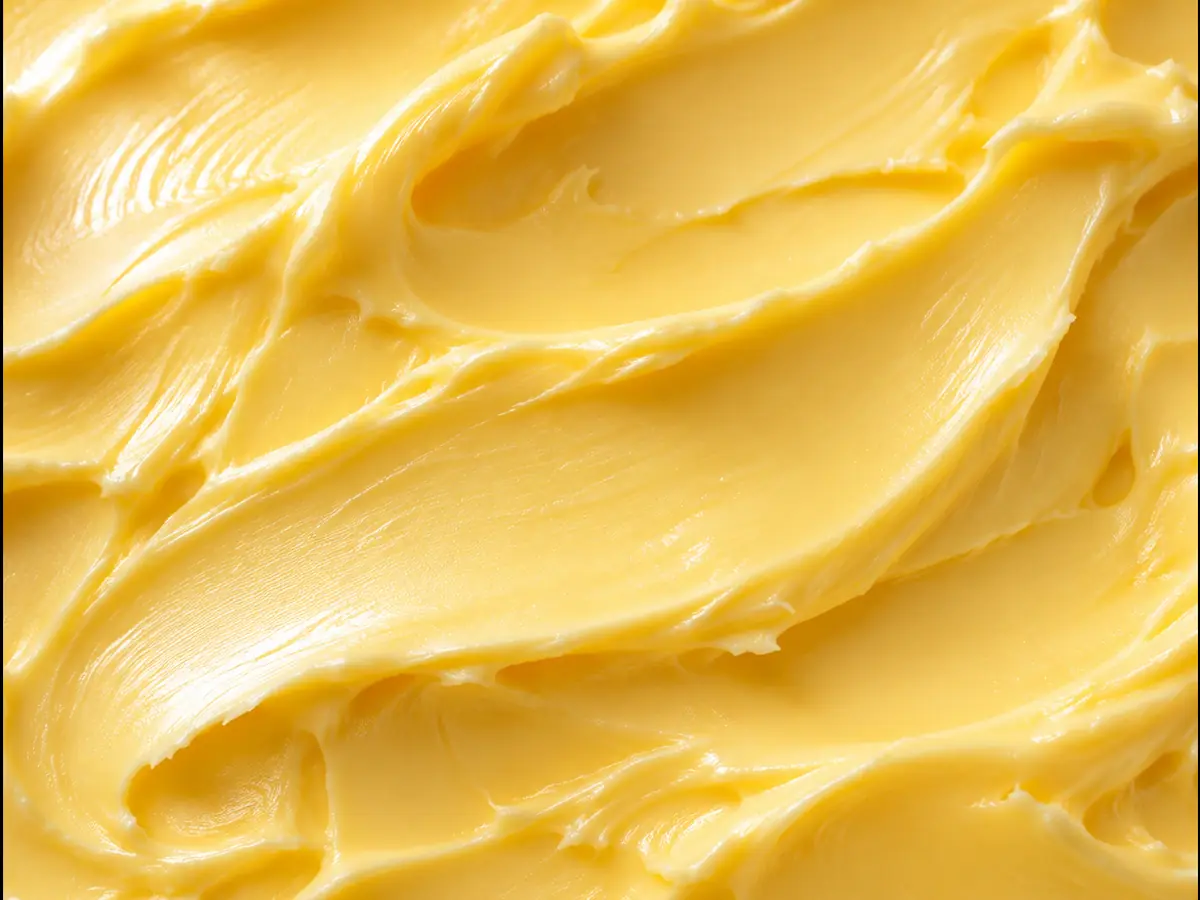
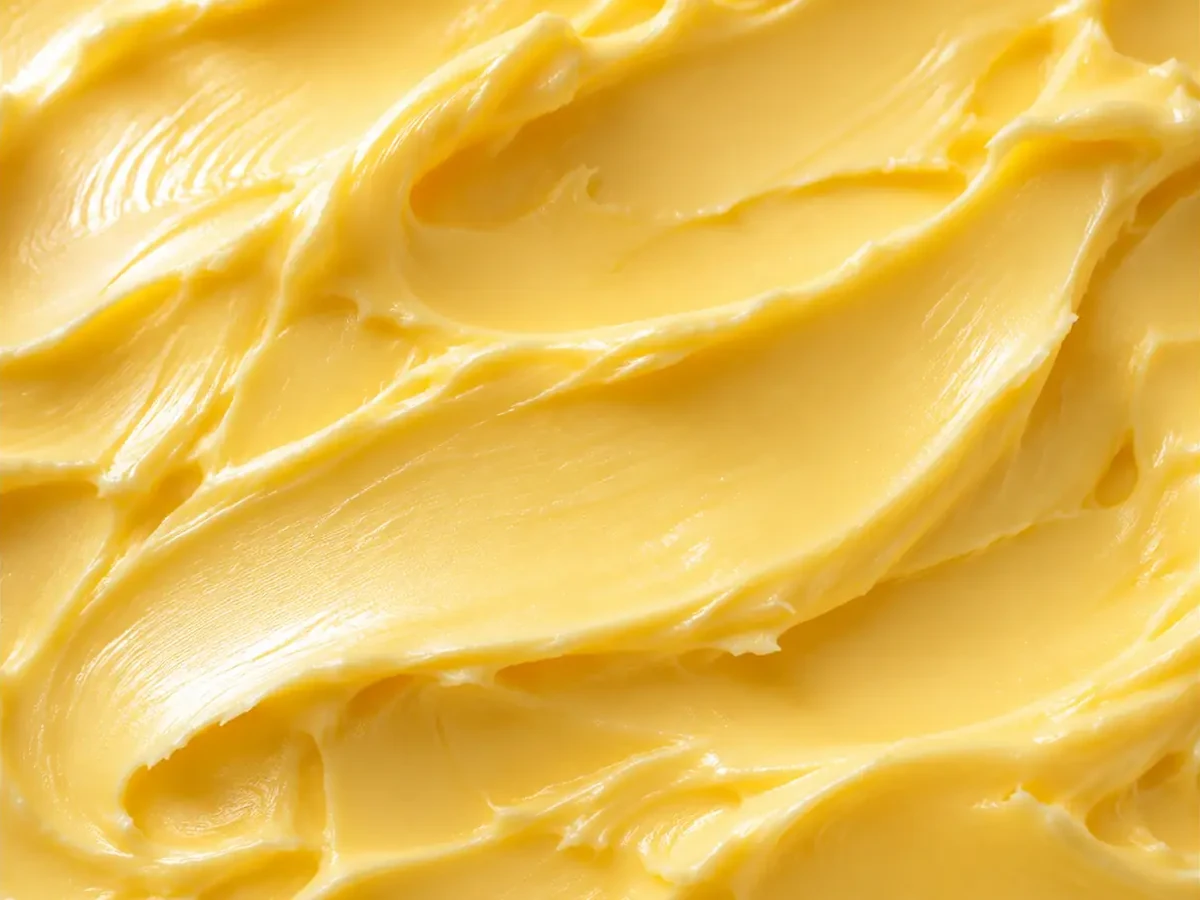
Trim black edges from product images and add the Personal Care products
- All 23 handover product images carried 3 black pixel columns on the
  left and 2 on the right, visible as a hairline border; trimmed and
  re-encoded at 1200x900, with versioned image URLs so the image CDN
  picks up the new files
- Add Darby IPM, Darby IPP and Darby MCT to the Personal Care catalog
  from the client's product information, with two generated placeholder
  images to the design-system brief and the existing MCT image reused
- Composition text renders chemical subscripts (C₁₉H₃₈O₂)
- Personal Care copy and share image updated for the known range

Claude-Session: https://claude.ai/code/session_01CU7RCeHdAYKRgZe1UpvXSE

diff --git a/src/components/ProductCatalog.tsx b/src/components/ProductCatalog.tsx
@@ -2,7 +2,7 @@
 
 import Image from "next/image";
 import { useEffect, useState } from "react";
-import type { CategoryCount, Product } from "@/lib/products";
+import { productImage, type CategoryCount, type Product } from "@/lib/products";
 import { ArrowIcon, DisplayName } from "./ui";
 
 export const SPEC_PRODUCT_EVENT = "darby:spec-product";
@@ -74,7 +74,7 @@ export function ProductCatalog({
             <div className="card__media">
               <Image
                 className="pimg"
-                src={p.image}
+                src={productImage(p.image)}
                 alt={`${p.name === p.display_name ? p.name : p.display_name}, close-up`}
                 fill
                 sizes="(min-width: 1156px) 290px, (min-width: 860px) 33vw, (min-width: 568px) 50vw, 100vw"
@@ -89,7 +89,11 @@ export function ProductCatalog({
               </h3>
               <span className="card__subtitle">{p.subtitle}</span>
               <p className="card__desc">{p.description}</p>
-              {p.composition ? <p className="card__composition">{p.composition}</p> : null}
+              {p.composition ? (
+                <p className="card__composition">
+                  <DisplayName value={p.composition} />
+                </p>
+              ) : null}
               {p.certifications.length > 0 ? (
                 <p className="card__certs">
                   <span className="card__certs-label">Certified</span>

diff --git a/src/app/page.tsx b/src/app/page.tsx
@@ -3,7 +3,7 @@ import Image from "next/image";
 import Link from "next/link";
 import { HeroFilm } from "@/components/HeroFilm";
 import { ButtonLink, Equator } from "@/components/ui";
-import { getCategories, pluralProducts, type DivisionName } from "@/lib/products";
+import { getCategories, pluralProducts, productImage, type DivisionName } from "@/lib/products";
 import { homeSeo, pageMetadata } from "@/lib/seo";
 import { site } from "@/lib/site";
 
@@ -32,8 +32,8 @@ const divisions: {
   {
     name: "Personal Care",
     href: "/personal-care",
-    image: "/assets/products/hydro-palm-flakes.webp",
-    text: "Palm-based ingredients for personal care and cosmetic formulations, from the same RSPO-certified origin and the same U.S. warehouses.",
+    image: "/assets/products/darby-ipm.webp",
+    text: "Emollient esters and medium-chain triglycerides for skin care, color cosmetics and topical pharmaceutical formulations.",
   },
 ];
 
@@ -139,7 +139,7 @@ export default function HomePage() {
                   <Link href={d.href} tabIndex={-1} aria-hidden="true" className="division-row__media">
                     <Image
                       className="pimg"
-                      src={d.image}
+                      src={productImage(d.image)}
                       alt=""
                       fill
                       sizes="(min-width: 1000px) 640px, 100vw"

diff --git a/src/app/personal-care/page.tsx b/src/app/personal-care/page.tsx
@@ -5,7 +5,7 @@ import { DivisionPage } from "@/components/DivisionPage";
 export const metadata: Metadata = pageMetadata({
   title: "Personal Care | Darby",
   description:
-    "Palm-based ingredients for personal care and cosmetic formulations, from RSPO-certified producers and stocked at six U.S. ports.",
+    "Isopropyl myristate, isopropyl palmitate and medium-chain triglycerides for skin care, cosmetics and topical pharmaceutical formulations, stocked at six U.S. ports.",
   path: "/personal-care",
   image: ogImages.personalCare,
 });
@@ -19,7 +19,7 @@ export default function PersonalCarePage() {
   return (
     <DivisionPage
       division="Personal Care"
-      standfirst="Palm-based ingredients for personal care and cosmetic formulations, refined to consistent specifications and sourced from RSPO-certified producers."
+      standfirst="Emollient esters and medium-chain triglycerides for skin care, color cosmetics and topical pharmaceutical formulations, refined to consistent specifications."
       panel="rspo"
       nameSize={24}
       proof={[

diff --git a/src/lib/products.ts b/src/lib/products.ts
@@ -26,6 +26,13 @@ export type Product = {
 
 export type CategoryCount = { name: string; count: number };
 
+/**
+ * Bump when product image files change in place. The version becomes part of the image
+ * URL, so Vercel's image CDN serves the new files instead of its cached optimizations.
+ */
+export const PRODUCT_IMAGE_VERSION = "2";
+export const productImage = (path: string) => `${path}?v=${PRODUCT_IMAGE_VERSION}`;
+
 const products = (catalog as Product[]).slice().sort((a, b) => a.sort_order - b.sort_order);
 
 export function getProducts(division: DivisionName): Product[] {

diff --git a/src/lib/seo.ts b/src/lib/seo.ts
@@ -14,7 +14,7 @@ export const ogImages = {
   },
   personalCare: {
     url: "/og/darby-personal-care.jpg",
-    alt: "Darby Personal Care: palm-based ingredients for personal care and cosmetics.",
+    alt: "Darby Personal Care: esters and triglycerides for personal care.",
   },
   contact: { url: "/og/darby-contact.jpg", alt: "Talk to the Darby team. Sales +1 914 557 0514." },
 } as const;

diff --git a/README.md b/README.md
@@ -111,10 +111,12 @@ After reviewing the reference sites the client sent (Waxian, Global Agri-Trade, 
 - **Product detail.** Each Food Ingredients card now carries a composition line and certification chips (Halal, FSSC 22000, ISO 9001:2015), taken from the product pages on the current darbyinc.com (`composition` and `certifications` in `products.json`). Animal Nutrition products have no such data on the current site; add the fields when Darby supplies them.
 - **"Who we supply"** band on the home page, naming the customer types for each division.
 - **Sales line in the header** on screens 1200px and wider.
+- **Image edges trimmed.** Every handover product image had 3 black pixel columns on the left and 2 on the right, which showed as a hairline border on the site (and in the prototype). All 23 were trimmed and re-encoded at 1200×900. Product image URLs carry `?v=N` (`PRODUCT_IMAGE_VERSION` in `src/lib/products.ts`); bump it whenever image files change in place, so Vercel's image cache refreshes.
+- **Personal Care products** (Darby IPM, Darby IPP, Darby MCT) added from the client's product information, with two generated placeholder images to the design-system brief (close-up liquid, no containers) and the existing MCT image reused. Approval needed, as for the other 23.
 - **Eyebrow labels removed** wherever they only restated the heading beneath them (hero, section intros, catalog, spec form, warehouses, share images). Labels that carry information stay: card categories and certifications, the Sales/Email/Visit field labels, the coast and office groups, the C16 and RSPO panel titles.
 
 Still needed from Darby:
-- **Personal Care products:** names, categories, descriptions and images, to the brief in the design system. The division copy on the home page and its page is placeholder until then.
+- **Personal Care images:** approve the two generated placeholders (IPM, IPP) or replace them with photography. Certifications for the three Personal Care products, if any.
 - **Thailand office:** city and address. The map star is on Bangkok as a placeholder.
 - Confirm the new headlines, the Personal Care wording and the "Who we supply" customer types.
 - Composition and certifications for the ten Animal Nutrition products, and which certifications apply to which plants, for a certifications line on the division pages.
